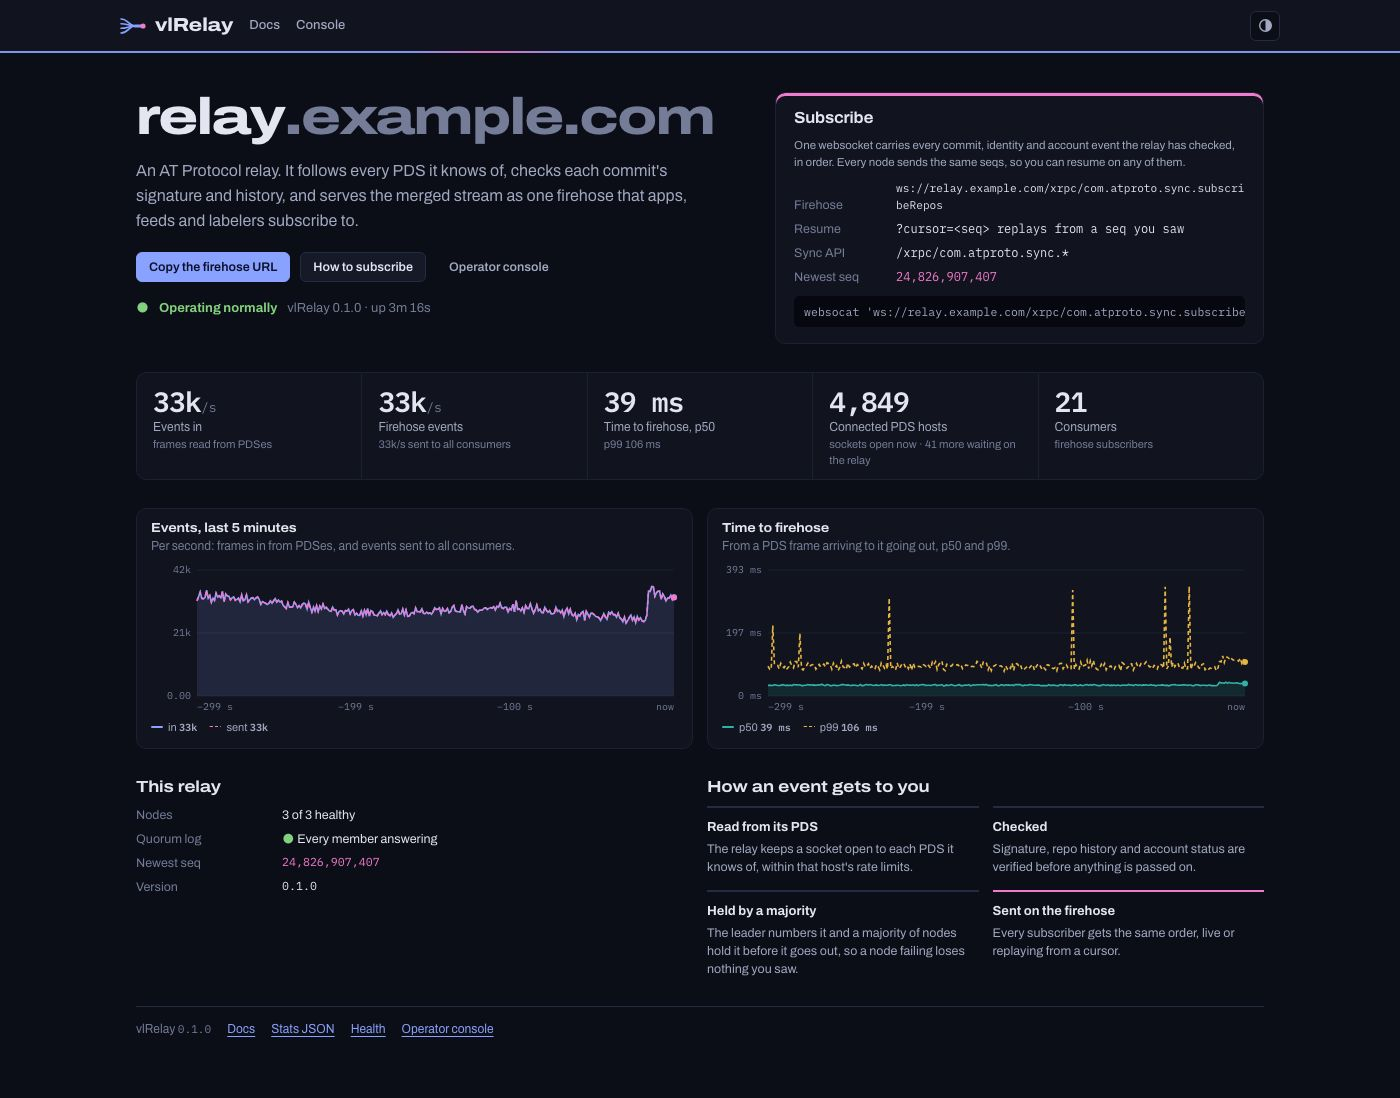
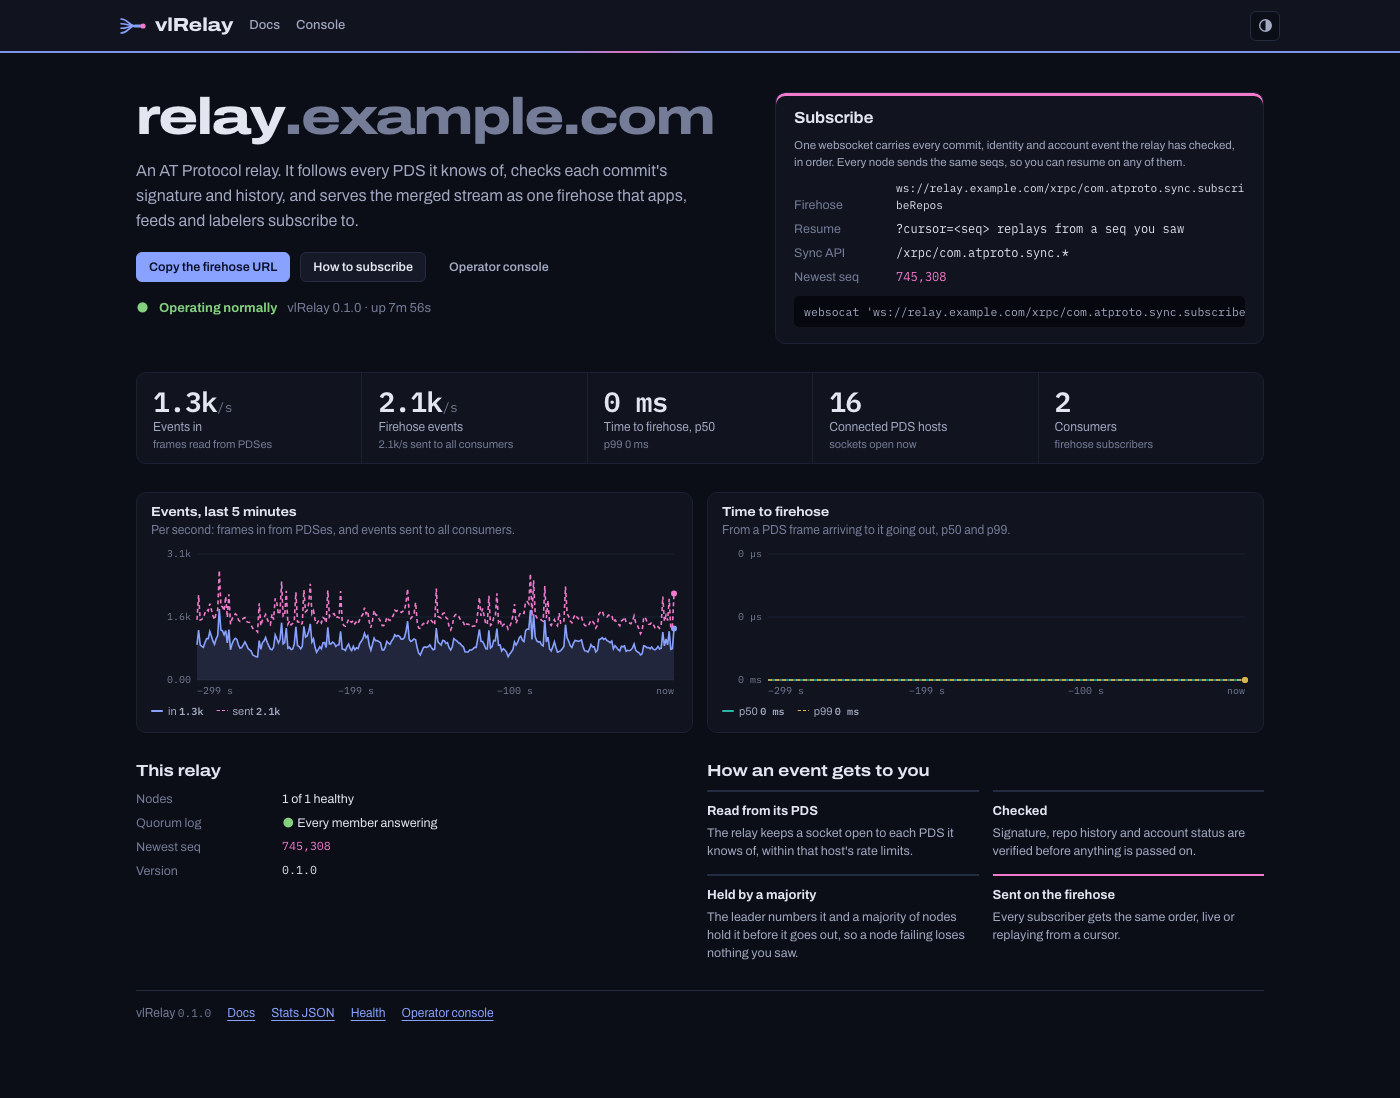
vlrelay docs: screenshots from a local three-node cluster with fake accounts
The README's overview, hosts, public and quorum shots were the demo
backend's simulated relay. They're now the console on a local quorum
(leader plus two followers) reading a 40-host fakepds fleet with its own
PLC at ~1.5k events/s, captured headless at the same sizes and themes.
Captions say so, and shadow.md stops pointing at the run's old
dashboard-real-*.jpg files, which the last docs pass removed.

Mono-Commit: 1625ba9163bf0149533c088c9d11f29dc25958e9

diff --git a/README.md b/README.md
@@ -4,7 +4,7 @@ vlRelay is an atproto relay on a replicated log. It subscribes to PDSes, checks 
 against sync 1.1, and serves one combined firehose from one node or three, with an S3, R2, GCS or
 MinIO bucket as its long-term copy.
 
-![The operator console's overview on the demo backend: a simulated three-node relay reading 5,000 PDSes, with firehose rate, time to firehose, quorum and flush health, rejects, how each PDS stream flows through the members to the leader, and consumers](docs/assets/dashboard-real-overview.jpg)
+![The operator console's overview on a local three-node cluster with fake accounts: n1 leads, with firehose rate, time to firehose, quorum and flush health, rejects, the PDS streams n1 reads flowing to the leader, and consumers](docs/assets/dashboard-real-overview.jpg)
 
 It's built from the parts of [vlpds](https://github.com/jazware/vlpds) that worked, now crates both
 build on, [vlsync](https://github.com/jazware/vlsync) and [vlatproto](https://github.com/jazware/vlatproto):
@@ -51,12 +51,14 @@ its log segments, firehose serving and SlateDB state, and its atproto code. Cons
   same upstreams, and the seqs are dense (1, 2, 3, …) and the same on every node.
   → [Compatibility](docs/compat.md), [Subscribe to the firehose](docs/subscribing.md)
 
-The screenshots here come from the demo backend (`cargo run --bin admin_demo`), a simulated
-5,000-host relay on three nodes. The hosts page at the busy end:
+The screenshots here come from a local three-node cluster (a leader and two followers) reading a
+`fakepds` fleet of 40 fake PDSes with ~12,000 fake accounts and its own PLC, at ~1.5k events/s.
+[Load fleet](docs/loadfleet.md) shows how to run one. Two of the hosts send a few bad signatures
+on purpose, so there are rejects. The hosts page, busiest first:
 
-![The hosts page on the demo backend: thousands of hosts by events per second, with tiers, error rates and throttles](docs/assets/dashboard-hosts.jpg)
+![The hosts page on the local cluster: the fake PDSes n1 reads, by events per second, with tiers, error rates, account counts and read lag](docs/assets/dashboard-hosts.jpg)
 
-The public page, on the demo backend:
+The public page on the same cluster:
 
 ![The public page: the relay's host name, how to subscribe to the firehose, live events in and out, time to firehose, connected hosts and consumers, and node and quorum health](docs/assets/dashboard-public-dark.jpg)
 
@@ -64,7 +66,7 @@ The console's quorum and cluster page, with each member's acked, committed and e
 flush point F and reserve R, leadership changes, bucket recoveries and which member reads each
 host:
 
-![The quorum and cluster page on the demo backend: epoch, leader, members answering, commit index, F and R, each member's log, leadership changes, per-member lag and durability, flushes, counters, the ack backlog and host owners](docs/assets/dashboard-quorum-dark.jpg)
+![The quorum and cluster page on the local cluster: epoch, leader, members answering, commit index, F and R, each member's log, the election that made n1 leader, per-member lag and durability, flushes, counters and host owners](docs/assets/dashboard-quorum-dark.jpg)
 
 ## Quickstart
 

diff --git a/docs/shadow.md b/docs/shadow.md
@@ -327,11 +327,9 @@ Not a vlRelay bug: eurosky's migration `#sync`
 
 ## Dashboard screenshots
 
-Screenshots taken during the run, on the earlier designs' dashboard, are in the repository as
-`docs/assets/dashboard-real-*.jpg`: the overview, consumers and cluster pages from n1 during the
-cluster phase, the hosts page from the single node 15 minutes in (three hosts auto-throttled, and
-their "errors" are the throttled accounts' drops), and the hosts page on a cluster node, which
-shows bug 4.
+The run's screenshots were of the earlier designs' dashboard, and they've left the repository
+with it. The README's screenshots are today's console on a local three-node cluster reading a
+[`fakepds`](loadfleet.md) fleet.
 
 ## Running one yourself
 
